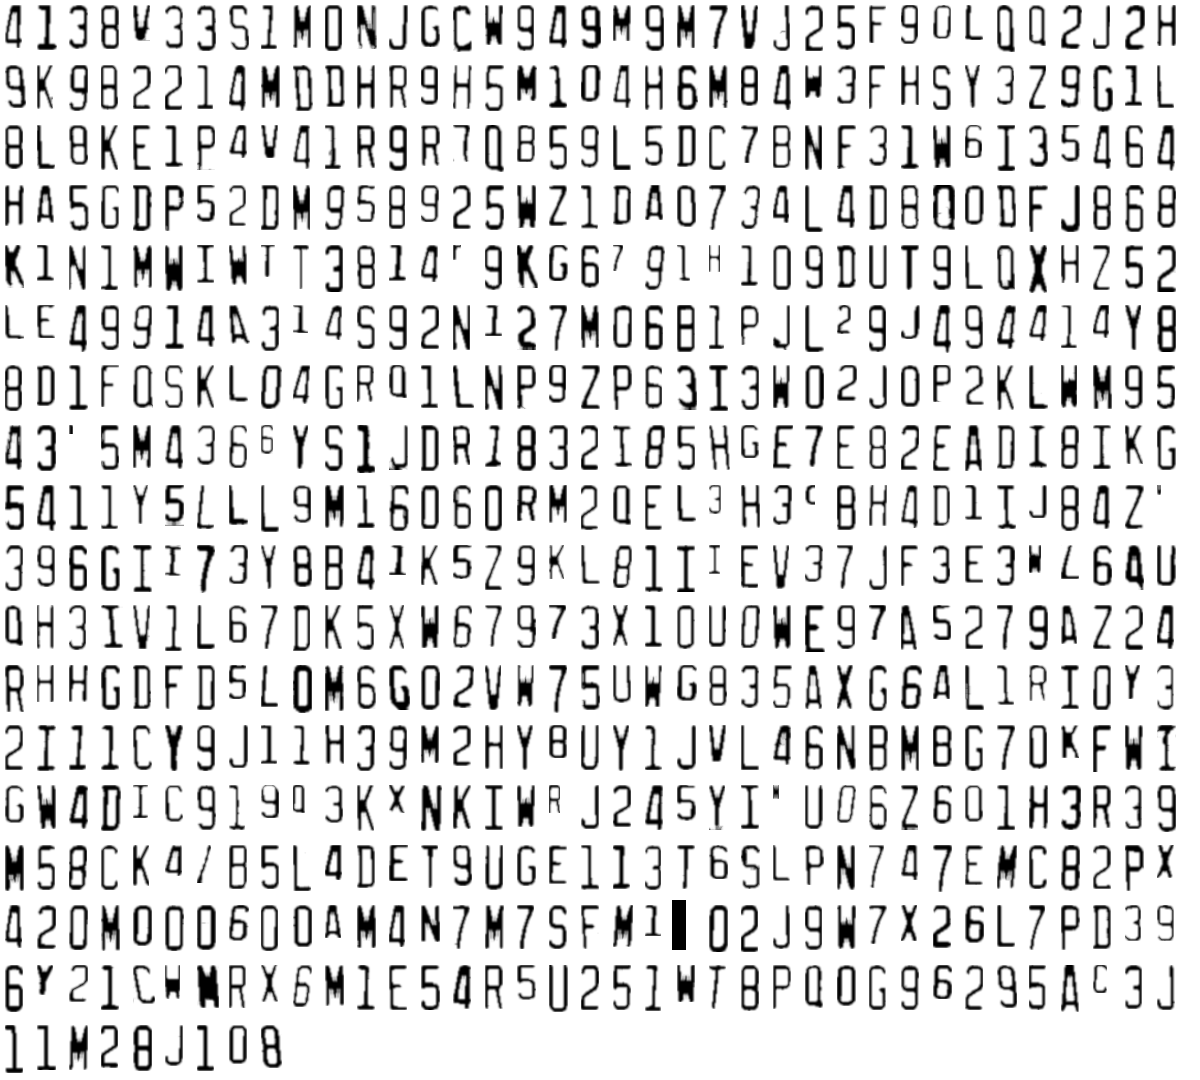
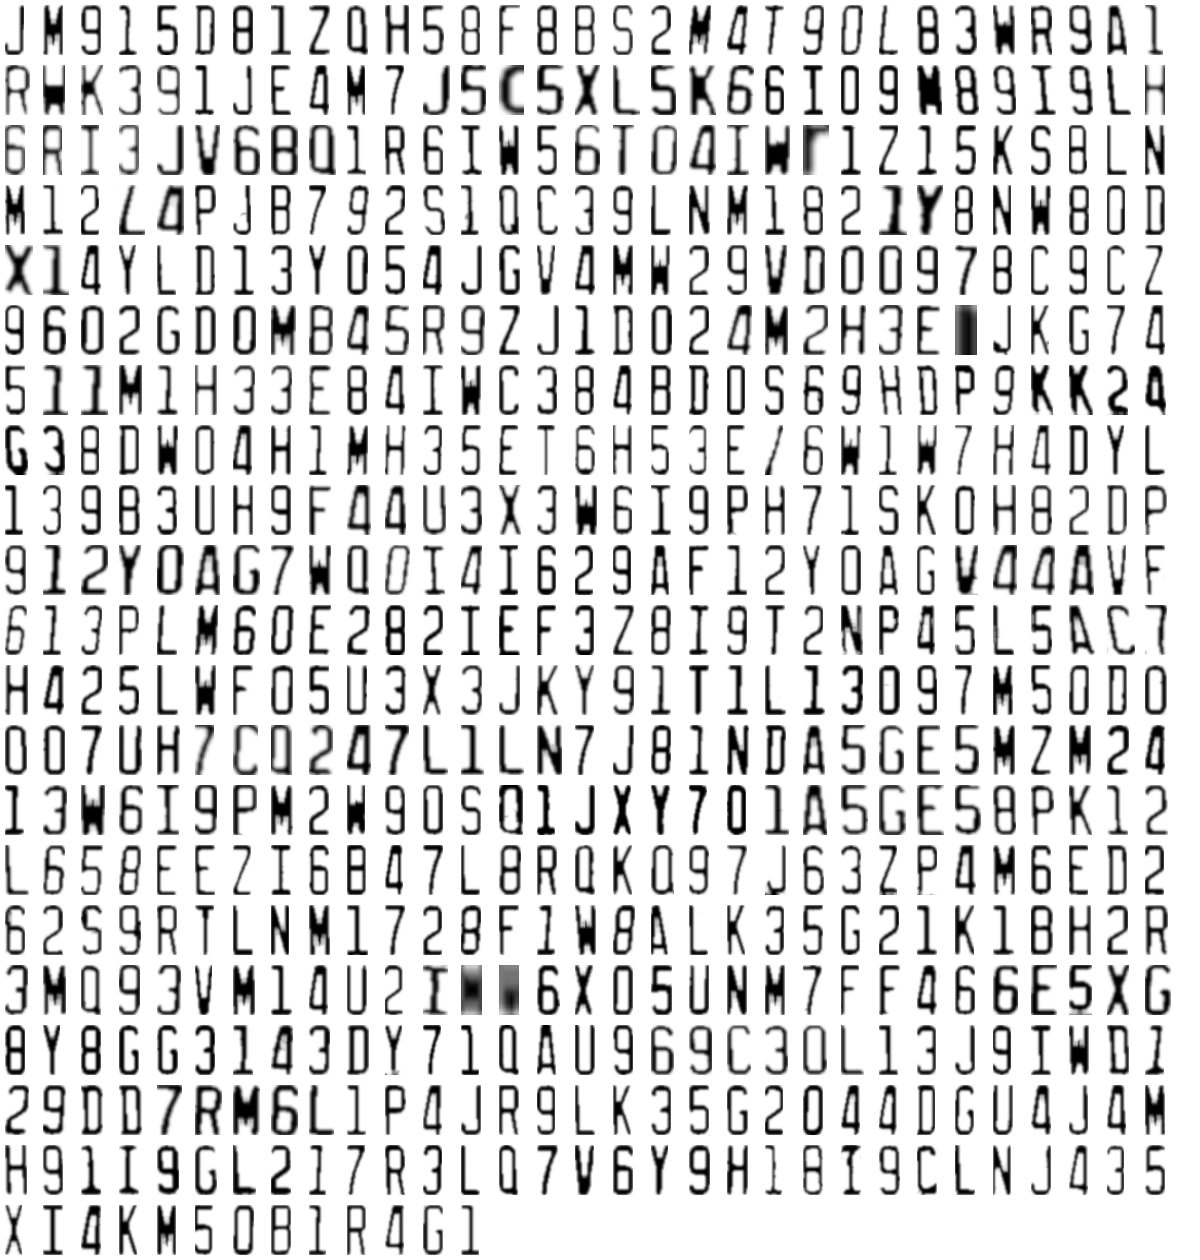
adaptando maketiff

diff --git a/ocr/maketiff.py b/ocr/maketiff.py
@@ -33,7 +33,10 @@ class MakeTiff:
 	def getPNGs(self):
 		for d in self.__dirs:
 			f = os.path.join(self.__blobsChars,d)
-			yield f
+			if os.path.isdir(f):
+				for i in os.listdir(f):
+					if len(i) == 7:
+						yield f + "/" + i
 
 	def getWidths(self):
 		for png in self.getPNGs():

diff --git a/platefinder.py b/platefinder.py
@@ -106,6 +106,7 @@ class PlateFinder(object):
         '''
 
         blobCroped = blob.crop()
+        blobCroped = blobCroped.resize(h=50)
          
         new_img = Image(
             copyMakeBorder(
